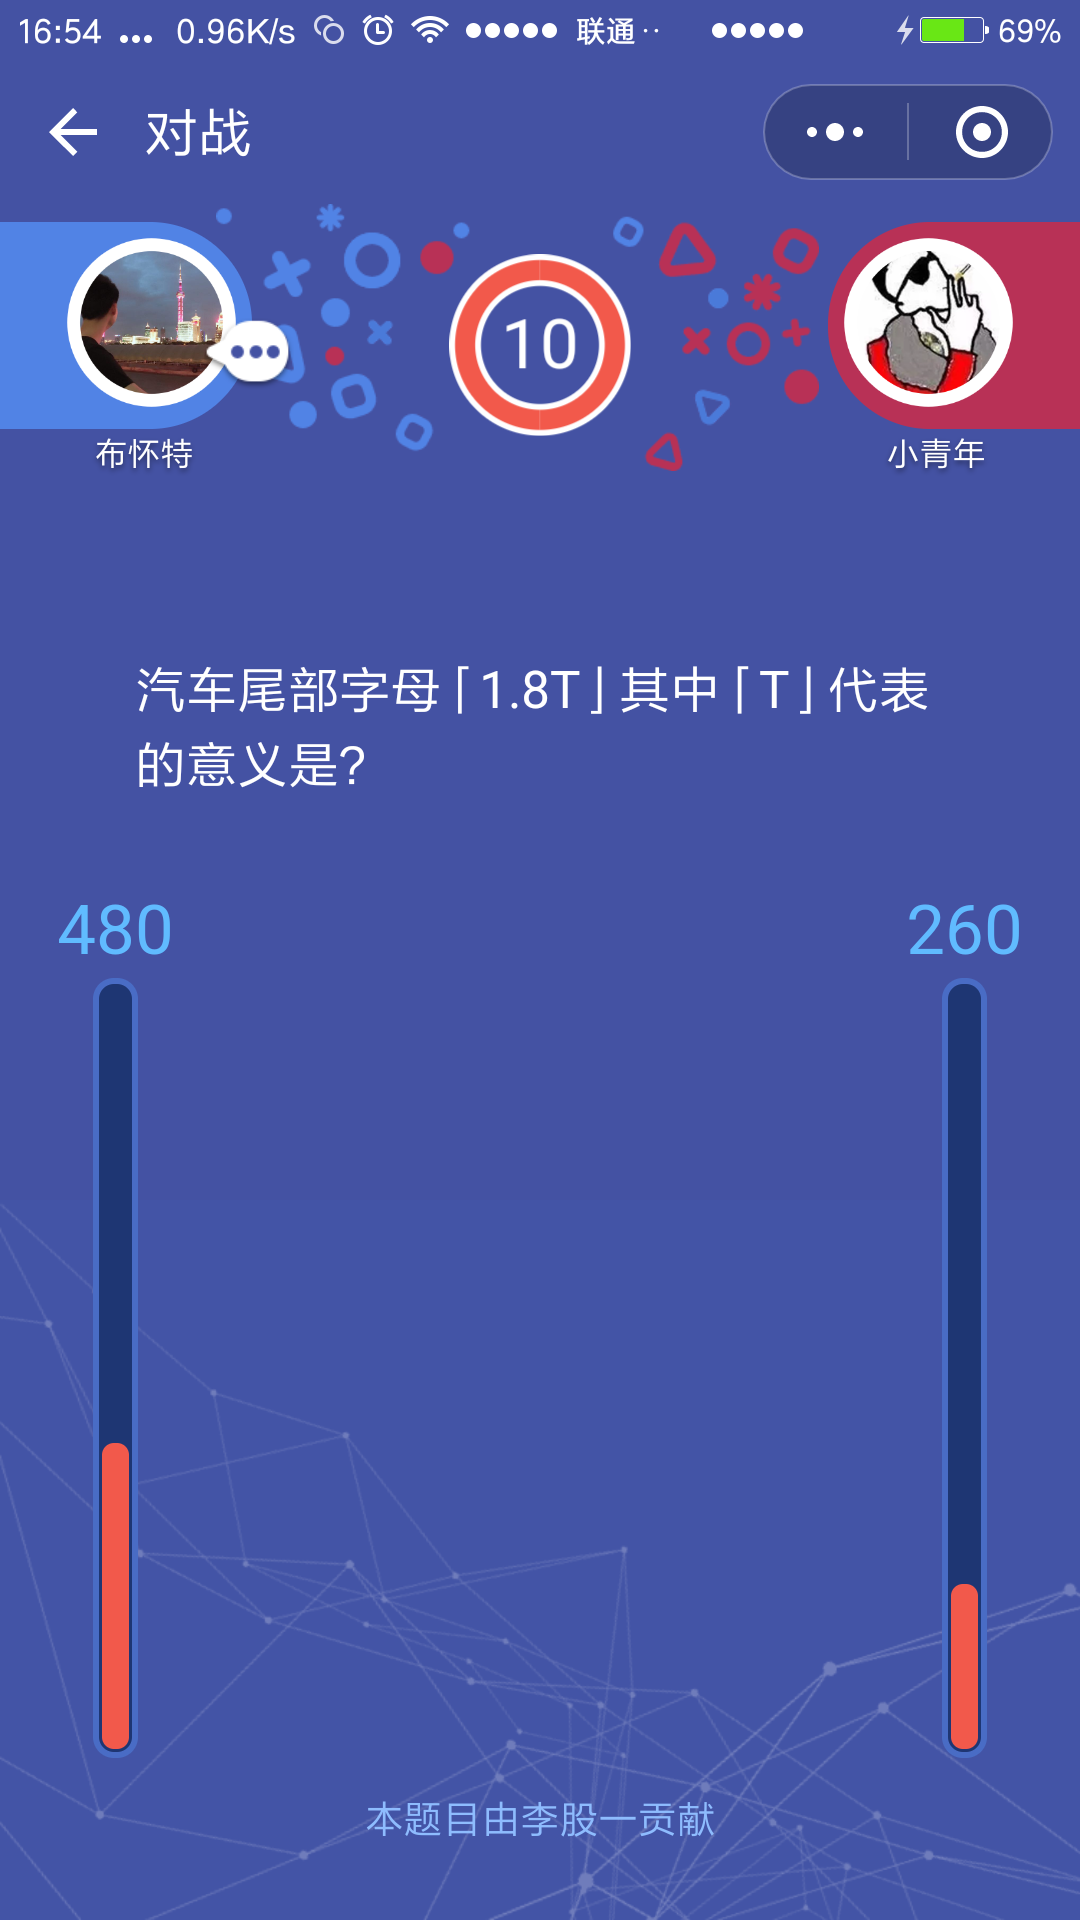
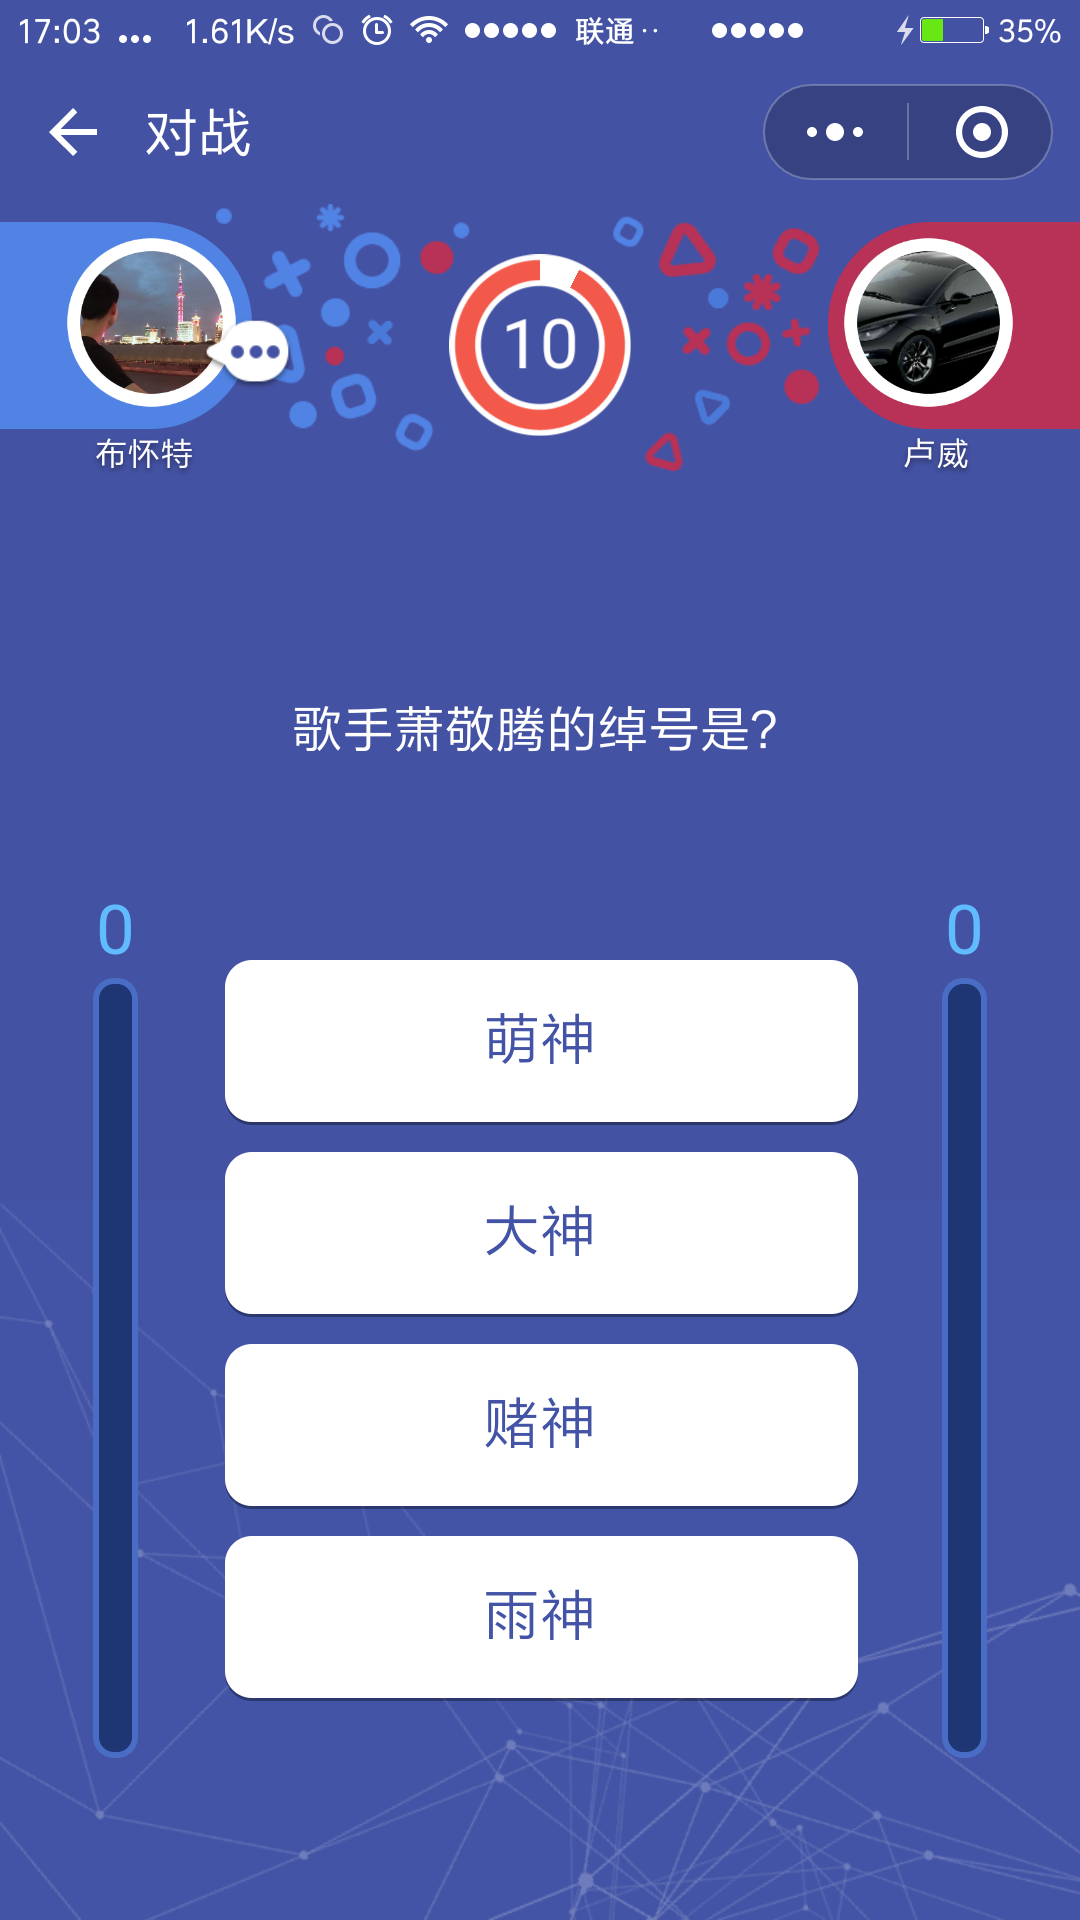
获取答案文字，给出推荐答案

diff --git a/hero.py b/hero.py
@@ -1,6 +1,7 @@
 import urllib.request, sys,base64,json,os,time,baiduSearch
 from PIL import Image
 from aip import AipOcr
+from analyse_answer import Ai
 
 start = time.time()
 os.system("adb shell /system/bin/screencap -p /sdcard/screenshot.png") 
@@ -26,44 +27,82 @@ im = Image.open(r"./screenshot.png")
 img_size = im.size
 w = im.size[0]
 h = im.size[1]
-print("xx:{}".format(img_size))
+print("屏幕尺寸:{}".format(img_size))
 
-# region = im.crop((70,200, w-70,700))    #裁剪的区域
-question  = im.crop((130, 600, w-130, 880)) # mi6
-question.save(r"./crop_test1.png")
-
-answer1 = im.crop((260, 960 , 860, 1110)) 
-answer1.save(r"./crop_answer1.png")
-
-answer2 = im.crop((260, 1160 , 860, 1310)) 
-answer2.save(r"./crop_answer2.png")
-
-answer3 = im.crop((260, 1360 , 860, 1510)) 
-answer3.save(r"./crop_answer3.png")
-
-answer4 = im.crop((260, 1560 , 860, 1710)) 
-answer4.save(r"./crop_answer4.png")
-
-
-
-""" 读取图片 """
+""" 读取图片函数 """
 def get_file_content(filePath):
     with open(filePath, 'rb') as fp:
         return fp.read()
+""" 获取最大的数字函数 """
+def biggest(a,b,c,d):  
+         if a>b:
+             maxnum = a
+         else:
+             maxnum = b
+         if c>maxnum:
+             maxnum=c
+             if  d > maxnum:
+                   maxnum = d
+         return maxnum
 
+""" 截取问题图片 """
+question  = im.crop((130, 600, w-130, 880)) # mi6
+question.save(r"./crop_test1.png")
+
+""" 获取问题文本 """
 question_image = get_file_content(r"./crop_test1.png")
-respon = client.basicGeneral(question_image)   #用完500次后可改respon = client.basicAccurate(image) 
-titles = respon['words_result']          #获取问题
+#用完500次后可改respon = client.basicAccurate(question_image) 
+respon = client.basicAccurate(question_image)  
+titles = respon['words_result']
 ans = ''
 for title in titles:
       ans = ans +title['words']
+#打印问题（黑色）
+print("\033[30m", ans) 
 
-print("\033[30m", ans)       #打印问题
+""" 截取答案图片 """
+answer1 = im.crop((250, 950 , 880, 1110)) 
+answer1.save(r"./crop_answer1.png")
+answer2 = im.crop((250, 1150 , 880, 1310)) 
+answer2.save(r"./crop_answer2.png")
+answer3 = im.crop((250, 1350 , 880, 1510)) 
+answer3.save(r"./crop_answer3.png")
+answer4 = im.crop((250, 1550 , 880, 1710)) 
+answer4.save(r"./crop_answer4.png")
+""" 获取答案文本 """
+# 答案1
+ans1_img = get_file_content(r"./crop_answer1.png")
+ans1_respon = client.basicAccurate(ans1_img) 
+ans1_result = ans1_respon['words_result'] 
+ans1_words = ''
+for title1 in ans1_result:
+      ans1_words = ans1_words +title1['words']
+# 答案2
+ans2_img = get_file_content(r"./crop_answer2.png")
+ans2_respon = client.basicAccurate(ans2_img) 
+ans2_result = ans2_respon['words_result'] 
+ans2_words = ''
+for title2 in ans2_result:
+      ans2_words = ans2_words +title2['words']
+# 答案3
+ans3_img = get_file_content(r"./crop_answer3.png")
+ans3_respon = client.basicAccurate(ans3_img) 
+ans3_result = ans3_respon['words_result'] 
+ans3_words = ''
+for title3 in ans3_result:
+      ans3_words = ans3_words +title3['words']
+# 答案4
+ans4_img = get_file_content(r"./crop_answer4.png")
+ans4_respon = client.basicAccurate(ans4_img) 
+ans4_result = ans4_respon['words_result'] 
+ans4_words = ''
+for title4 in ans4_result:
+      ans4_words = ans4_words +title4['words']
+# 打印答案（蓝色） 
+print("\033[34m", ans1_words, ans2_words, ans3_words, ans4_words)
 
-keyword = ans    #识别的问题文本
-
+keyword = ans 
 convey = 'n'
-
 if convey == 'y' or convey == 'Y':
     results = baiduSearch.search(keyword, convey=True)
 elif convey == 'n' or convey == 'N' or not convey:
@@ -72,21 +111,27 @@ else:
     print('输入错误')
     exit(0)
 count = 0
+
+# 获取搜索结果 
+result_final = ''
 for result in results:
-    #print('{0} {1} {2} {3} {4}'.format(result.index, result.title, result.abstract, result.show_url, result.url))  # 此处应有格式化输出
-	print("\033[31m", '{0}'.format(result.abstract))  # 此处应有格式化输出
-	count=count+1
-	if(count == 2):      #这里限制了只显示2条结果，可以自己设置
-		break
+    # print('{0} {1} {2} {3} {4}'.format(result.index, result.title, result.abstract, result.show_url, result.url))  # 此处应有格式化输出
+	# print("\033[31m", '{0}'.format(result.abstract))  # 此处应有格式化输出
+      result_final = result_final + '{0}'.format(result.abstract)
+      count=count+1
+      if(count == 2): #这里限制了只显示2条结果，可以自己设置
+            break
+# 打印搜索结果（红色） 
+print("\033[31m", result_final)
+
+""" 分析答案（统计答案在结果中的出现次数） """
+a = result_final.count(ans1_words)
+b = result_final.count(ans2_words)
+c = result_final.count(ans3_words)
+d = result_final.count(ans4_words)
+dict={a: ans1_words, b: ans2_words, c: ans3_words, d: ans4_words}
+print("\036[35m", '推荐答案：' + dict[biggest(a,b,c,d)])
+
 
 end = time.time()
 print('程序用时：'+str(end-start)+'秒')
-
-## 源码中用到的代码
-# tissue = ans[1:2]
-# if str.isdigit(tissue):            #去掉题目索引
-#      ans = ans[0:]   
-# else:
-#      ans = ans[0:]
-
-##

diff --git a/analyse_answer.py b/analyse_answer.py
@@ -1,0 +1,76 @@
+import urllib.request,time,_thread,urllib.parse
+
+class Ai:
+
+    def biggest(self,a,b,c):  #获取出现次数最多的答案
+         if a>b:
+             maxnum = a
+         else:
+             maxnum = b
+         if c>maxnum:
+             maxnum=c
+         return maxnum
+
+    def __init__(self,issue,answer): # 注意前后各两个下划线
+        self.start = time.time()
+        self.issue = issue
+        self.answer = answer
+        self.a = 0
+        self.b = 0
+        self.c = 0
+        self.count = 0
+        
+    def gethtml(self,url):
+     headers = ('User-Agent','Mozilla/5.0 (Windows NT 6.1) AppleWebKit/537.11 (KHTML, like Gecko) Chrome/23.0.1271.64 Safari/537.11')
+
+     opener = urllib.request.build_opener()
+     opener.addheaders = [headers]
+     date = opener.open(url).read()
+     
+     if "zhidao.baidu.com" in url:
+        str1=date.decode('gbk').encode('utf-8').decode('utf-8')
+     else:
+        str1=str(date,"utf-8")
+
+
+     self.count += 1
+     self.a += str1.count(self.answer[0].replace('A', ''))
+     self.b += str1.count(self.answer[1].replace('B', ''))
+     self.c += str1.count(self.answer[2].replace('C', ''))
+     
+    def threhtml(self,url):    #开线程获得网页
+        _thread.start_new_thread(self.gethtml,(url,))
+
+    def search(self):           #要搜索的引擎
+        
+		 #可以自己添加搜索接口  self.threhtml(网址) 并在59行代码加一个数
+         baidu = self.threhtml("https://zhidao.baidu.com/search?lm=0&rn=10&pn=0&fr=search&ie=gbk&word="+urllib.parse.quote(self.issue,encoding='gbk'))
+
+         sousou = self.threhtml("http://wenwen.sogou.com/s/?w="+urllib.parse.quote(self.issue)+"&ch=ww.header.ssda")
+
+         iask = self.threhtml("https://iask.sina.com.cn/search?searchWord="+urllib.parse.quote(self.issue)+"&record=1")
+
+         so360 = self.threhtml("https://wenda.so.com/search/?q="+urllib.parse.quote(self.issue))
+
+    
+
+
+         while 1:
+           if(self.count == 4):       #这里是59行代码，如果你自己增加搜索接口(4改5)
+               break
+
+         dict = {self.a: 'A', self.b: 'B', self.c: 'C'}
+
+         listselect = [self.a,self.b,self.c]
+         print('---------------------------------')
+         print(' 选项    出现次数  ')
+         print('  A：     ' + str(self.a))
+         print('  B：     ' + str(self.b))
+         print('  C：     ' + str(self.c))
+         print('---------------------------------')
+         print('  推荐答案：' + dict[self.biggest(self.a,self.b,self.c)])
+         print('---------------------------------')
+         print()
+
+         end = time.time()
+         print('搜索用时：'+str(end-self.start)+'秒')
